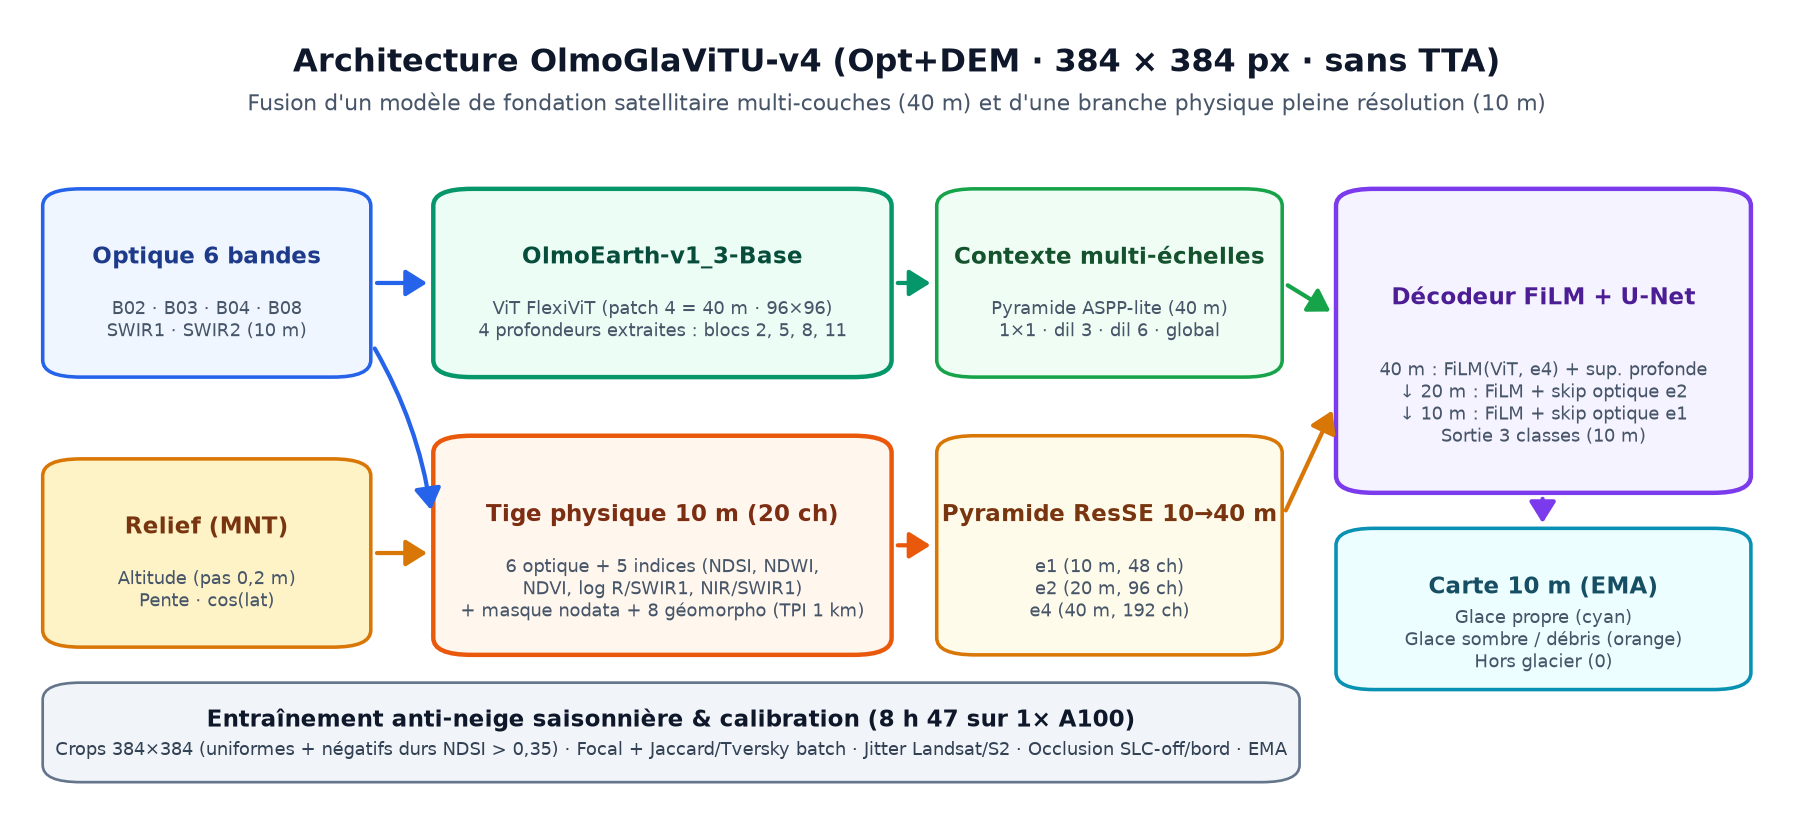
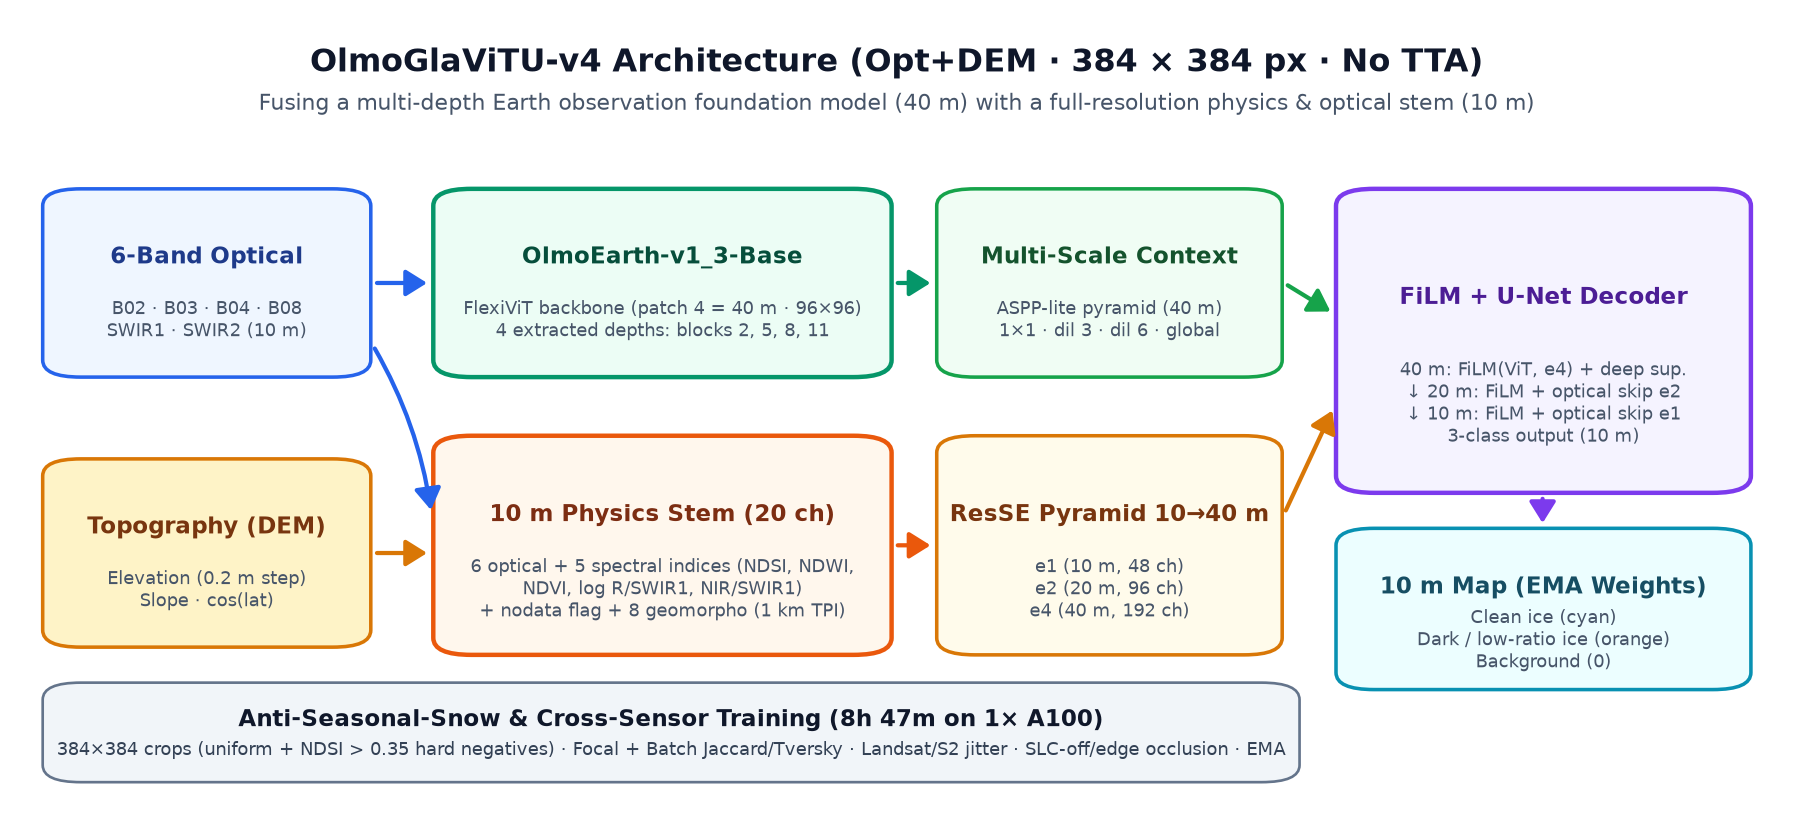
Translate README and benchmark/architecture/comparison figures to English

diff --git a/README.md b/README.md
@@ -1,162 +1,161 @@
-# CryoFM — Atlas mondial 10 m · OlmoGlaViTU vs GlaViTU Global
+# CryoFM — Interactive 10 m Global Glacier Atlas · OlmoGlaViTU vs. GlaViTU Global
 
-[![Atlas en ligne](https://img.shields.io/badge/Atlas_3D_en_ligne-GitHub_Pages-0ea5e9?style=flat-square)](https://tofunori.github.io/cryofm/)
-[![MOY11 sans TTA](https://img.shields.io/badge/MOY11_(556_tuiles,_sans_TTA)-0.9020_(vs_0.894)-059669?style=flat-square)](#résultats-quantitatifs-sans-tta)
-[![Entraînement](https://img.shields.io/badge/Entraînement-8h47_sur_1×_A100-7c3aed?style=flat-square)](#architecture-olmoglavitu-v4)
-[![Modalités](https://img.shields.io/badge/Entrées-Opt%2BDEM_uniquement-f59e0b?style=flat-square)](#protocole-à-armes-égales)
+[![Live 3D Atlas](https://img.shields.io/badge/Live_3D_Atlas-GitHub_Pages-0ea5e9?style=flat-square)](https://tofunori.github.io/cryofm/)
+[![11-Region Mean IoU](https://img.shields.io/badge/11--Region_IoU_(556_tiles,_no_TTA)-0.9020_(vs._0.894)-059669?style=flat-square)](#quantitative-results-no-tta)
+[![Training Cost](https://img.shields.io/badge/Training-8h_47m_on_1×_A100-7c3aed?style=flat-square)](#olmoglavitu-v4-architecture)
+[![Inputs](https://img.shields.io/badge/Inputs-Optical%2BDEM_only-f59e0b?style=flat-square)](#apples-to-apples-protocol)
 
-**CryoFM** est un atlas cartographique interactif à **10 m** (Vite + TypeScript + MapLibre GL 3D Globe, rasters servis depuis **Cloudflare R2**) qui compare pixel par pixel nos adaptations du modèle de fondation satellitaire **OlmoEarth v1.3** (`v2`, `v3`, `v3.1`, **`OlmoGlaViTU-v4`**) face à **GlaViTU Global** (Maslov et al., *Nature Communications*, 2025) sur l'ensemble du benchmark mondial glaciaire (**556 tuiles de test sur 11 régions + 4 scènes indépendantes hors domaine**).
+**CryoFM** is an interactive **10 m** global glacier mapping atlas (Vite + TypeScript + MapLibre GL 3D Globe, with 10 m rasters streamed from **Cloudflare R2**) comparing our adaptations of the **OlmoEarth v1.3** geospatial foundation model (`v2`, `v3`, `v3.1`, **`OlmoGlaViTU-v4`**) pixel-for-pixel against **GlaViTU Global** (Maslov et al., *Nature Communications*, 2025) across the entire global benchmark (**556 test tiles spanning 11 glacierized regions + 4 independent out-of-domain acquisitions**).
 
-- **Atlas 3D interactif** : https://tofunori.github.io/cryofm/
-- **Catalogue R2 (rasters 10 m)** : https://cryofm-data.thierrystpierre.com/manifest.json
+- **Interactive 3D Atlas**: https://tofunori.github.io/cryofm/
+- **10 m Raster Manifest (R2 CDN)**: https://cryofm-data.thierrystpierre.com/manifest.json
 
 <p align="center">
   <a href="https://tofunori.github.io/cryofm/">
-    <img src="docs/assets/cryofm_globe.png" alt="Atlas interactif CryoFM — Globe 3D des 556 tuiles globales et 4 scènes indépendantes" width="100%" />
+    <img src="docs/assets/cryofm_globe.png" alt="CryoFM interactive 3D Globe showing 556 global test tiles and 4 independent scenes" width="100%" />
   </a>
 </p>
 
 ---
 
-## Exemples visuels à 10 m (glace propre, débris et généralisation hors domaine)
+## 10 m Visual Examples (Clean Ice, Debris Cover & Out-of-Domain Generalization)
 
-La figure ci-dessous est assemblée directement à partir des rasters 10 m servis par Cloudflare R2 sur trois contextes glaciologiques complémentaires :
+The plate below is assembled directly from the 10 m rasters served by Cloudflare R2 across three complementary glaciological settings:
 
-1. **Karakoram, Haute-Asie (`HMA-110-83`)** — glacier de vallée fortement couvert de débris : GlaViTU Global manque les deux larges marges latérales couvertes de débris (jaune, `IoU = 0,358`), alors que notre modèle cartographie toute la langue (`0,891` en `v3`, **`0,927`** en `v4`) tout en distinguant l'axe de glace propre (cyan) des manteaux sombres / bas ratio `Red/SWIR1 < 2,0` (orange).
-2. **Massif du Mont-Blanc, Alpes (`ALP-22-13`, Mer de Glace & Argentière)** — Sentinel-2 à 10 m avec ogives, moraines médianes et ombres portées : délimitation nette des marges terminales (`0,897` vs `0,852` pour GlaViTU).
-3. **Montagnes Côtières, Sud-Canada (`southern_canada`, Landsat-5 2005 — scène indépendante Table 1)** — zoom sur une grande langue glaciaire de vallée entièrement manquée par GlaViTU (en jaune) et capturée par notre modèle.
+1. **Karakoram, High-Mountain Asia (`HMA-110-83`)** — heavily debris-covered valley glacier: GlaViTU Global misses both wide lateral debris-covered flanks (yellow FN, `IoU = 0.358`), whereas our model maps the entire tongue (`0.891` in `v3`, **`0.927`** in `v4`) while separating clean ice along the central spine (cyan) from dark / low-ratio ice (`Red/SWIR1 < 2.0`, orange).
+2. **Mont-Blanc Massif, European Alps (`ALP-22-13`, Mer de Glace & Argentière)** — 10 m Sentinel-2 imagery with ogives, medial moraines, and cast shadows: sharper terminal and lateral margins (`0.897` vs. `0.852` for GlaViTU).
+3. **Coast Mountains, Southern Canada (`southern_canada`, Landsat-5 2005 — Table 1 independent OOD scene)** — zoomed view of a major valley glacier terminus completely missed by GlaViTU (yellow) and cleanly captured by our model.
 
 <p align="center">
-  <img src="docs/assets/examples_10m_comparison.jpg" alt="Comparaison visuelle 10 m : Karakoram (HMA), Mont-Blanc (ALP) et Sud-Canada (Table 1)" width="100%" />
+  <img src="docs/assets/examples_10m_comparison.jpg" alt="10 m visual comparison across Karakoram (HMA), Mont-Blanc (ALP), and Southern Canada (Table 1)" width="100%" />
 </p>
 
-> **Transparence des couches** : la classe orange correspond à la partition *glace sombre / bas ratio (`Red/SWIR1 < 2,0`)* issue de `bright_dark_outlines` (et non à un inventaire géomorphologique pur de débris). Les rasters 10 m actuellement synchronisés sur R2 correspondent à `v3` / `v3.1` ; les couches `v4` / `v4.1` seront synchronisées dès la fin de la calibration `v4.1`.
+> **Layer transparency note**: the orange class reflects the *dark / low-ratio ice (`Red/SWIR1 < 2.0`)* partition from `bright_dark_outlines` rather than a pure geomorphological supraglacial debris inventory. The live R2 10 m rasters currently display `v3` / `v3.1`; `v4` / `v4.1` overlays will be synced upon completion of `v4.1`.
 
 ---
 
-## Résultats quantitatifs (sans TTA)
+## Quantitative Results (No TTA)
 
-### Protocole à armes égales
-Toutes les comparaisons ci-dessous sont réalisées **strictement sur les mêmes entrées `Opt+DEM` (6 bandes optiques + altitude/pente)**, **strictement sans *Test-Time Augmentation* (TTA)**, et selon le calcul exact de `evaluate.py` (Maslov et al., 2025).
+### Apples-to-Apples Protocol
+All comparisons use **strictly identical `Optical+DEM` inputs (6 optical bands + elevation/slope)**, **strictly no Test-Time Augmentation (TTA)**, and exact parity with GlaViTU's official `evaluate.py` (Maslov et al., 2025).
 
 <p align="center">
-  <img src="docs/assets/benchmark_11regions.png" alt="Benchmark 11 régions : progression OlmoEarth v2 -> v3.1 -> OlmoGlaViTU-v4 vs GlaViTU Global sans TTA" width="100%" />
+  <img src="docs/assets/benchmark_11regions.png" alt="11-region global glacier benchmark: OlmoEarth v2 -> v3.1 -> OlmoGlaViTU-v4 vs. GlaViTU Global without TTA" width="100%" />
 </p>
 
-### 1. Benchmark mondial — 556 tuiles de test (11 régions, Table 2 de Maslov et al., 2025)
+### 1. Global Benchmark — 556 Test Tiles (11 Regions, Maslov et al. 2025, Table 2)
 
-Un **seul modèle global `OlmoGlaViTU-v4`** (entraîné en **`8 h 47` sur 1 GPU A100**, contre ~2 semaines sur RTX A6000 pour GlaViTU Global) atteint **`MOY11 = 0,9020`** sans TTA — égalant déjà la moyenne des **11 modèles régionaux spécialisés** de GlaViTU (`0,902`) et dépassant GlaViTU Global (`0,894`) dans **9 régions sur 11** (`GR` à `-0,0001` et `AWA` à `-0,0004`).
+A **single global `OlmoGlaViTU-v4` model** (trained in **`8h 47m` on 1× A100**, vs. ~2 weeks on an RTX A6000 for GlaViTU Global) reaches **`0.9020` 11-region mean IoU** without TTA — already matching the average of GlaViTU's **11 separate regional specialist models (`0.902`)** and outperforming GlaViTU Global (`0.894`) in **9 of 11 regions** (with `GR` at `-0.0001` and `AWA` at `-0.0004`).
 
-| Région | GlaViTU Global (`Opt+DEM`) | OlmoEarth `v2` | OlmoEarth `v3.1` | **OlmoGlaViTU `v4`** | **Δ `v4 − GlaViTU`** |
+| Region | GlaViTU Global (`Opt+DEM`) | OlmoEarth `v2` | OlmoEarth `v3.1` | **OlmoGlaViTU `v4`** | **Δ `v4 − GlaViTU`** |
 |---|---:|---:|---:|---:|---:|
-| Scandinavie (`SC`) | `0,908` | `0,9153` | `0,9378` | **`0,9377`** | **`+0,0297`** |
-| Alpes (`ALP`) | `0,844` | `0,8103` | `0,8687` | **`0,8697`** | **`+0,0257`** |
-| Nouvelle-Zélande (`NZ`) | `0,860` | `0,8226` | `0,8652` | **`0,8724`** | **`+0,0124`** |
-| Caucase (`CAU`) | `0,862` | `0,8276` | `0,8661` | **`0,8682`** | **`+0,0062`** |
-| Andes Sud (`SA`) | `0,952` | `0,9385` | `0,9497` | **`0,9559`** | **`+0,0039`** |
-| Basses latitudes (`LL`) | `0,903` | `0,8788` | `0,8911` | **`0,9057`** | **`+0,0027`** |
-| Antarctique (`AN`) | `0,949` | `0,9345` | `0,9438` | **`0,9514`** | **`+0,0024`** |
-| Svalbard (`SVAL`) | `0,936` | `0,9294` | `0,9331` | **`0,9372`** | **`+0,0012`** |
-| Haute-Asie (`HMA`, débris) | `0,774` | `0,6858` | `0,7595` | **`0,7751`** | **`+0,0011`** |
-| Groenland (`GR`) | `0,937` | `0,9299` | `0,9339` | `0,9369` | `-0,0001` |
-| Alaska & Ouest Am. (`AWA`) | `0,912` | `0,8876` | `0,9110` | `0,9116` | `-0,0004` |
-| **Moyenne 11 régions (`MOY11`)** | **`0,894`** *(0,8943)* | `0,8691` | `0,8964` | **`0,9020`** | **`+0,0077`** |
-| **IoU global (pixels agrégés)** | n/d | `0,9027` | `0,9189` | **`0,9231`** | `dA = +1,53 %` |
-| **IoU moyen par tuile** | `0,7697` | — | `0,7901` | **`0,7960`** | **`+0,0263`** |
-| **Coût d'entraînement** | ~2 sem. RTX A6000 | `4 h 44` A100 | `1 h 48` A100 | **`8 h 47` A100** | **~35× plus rapide** |
+| Scandinavia (`SC`) | `0.908` | `0.9153` | `0.9378` | **`0.9377`** | **`+0.0297`** |
+| European Alps (`ALP`) | `0.844` | `0.8103` | `0.8687` | **`0.8697`** | **`+0.0257`** |
+| New Zealand (`NZ`) | `0.860` | `0.8226` | `0.8652` | **`0.8724`** | **`+0.0124`** |
+| Caucasus (`CAU`) | `0.862` | `0.8276` | `0.8661` | **`0.8682`** | **`+0.0062`** |
+| Southern Andes (`SA`) | `0.952` | `0.9385` | `0.9497` | **`0.9559`** | **`+0.0039`** |
+| Low Latitudes (`LL`) | `0.903` | `0.8788` | `0.8911` | **`0.9057`** | **`+0.0027`** |
+| Antarctica (`AN`) | `0.949` | `0.9345` | `0.9438` | **`0.9514`** | **`+0.0024`** |
+| Svalbard (`SVAL`) | `0.936` | `0.9294` | `0.9331` | **`0.9372`** | **`+0.0012`** |
+| High-Mountain Asia (`HMA`, debris) | `0.774` | `0.6858` | `0.7595` | **`0.7751`** | **`+0.0011`** |
+| Greenland Periphery (`GR`) | `0.937` | `0.9299` | `0.9339` | `0.9369` | `-0.0001` |
+| Alaska & W. North America (`AWA`) | `0.912` | `0.8876` | `0.9110` | `0.9116` | `-0.0004` |
+| **11-Region Mean** | **`0.894`** *(0.8943)* | `0.8691` | `0.8964` | **`0.9020`** | **`+0.0077`** |
+| **Global Pixel IoU** | n/a | `0.9027` | `0.9189` | **`0.9231`** | `dA = +1.53%` |
+| **Mean Per-Tile IoU** | `0.7697` | — | `0.7901` | **`0.7960`** | **`+0.0263`** |
+| **Training Compute** | ~2 wks RTX A6000 | `4h 44m` A100 | `1h 48m` A100 | **`8h 47m` A100** | **~35× faster** |
 
-- **Bootstrap apparié `v4 − v3.1`** (2 000 réplicats stratifiés) : `+0,0056`, IC 95 % `[+0,0035 ; +0,0106]`, `P(v4 > v3.1) = 1,0000` (`355/556` tuiles améliorées).
-- **Glace sombre / bas ratio (`Red/SWIR1 < 2,0`)** : `IoU = 0,7104` (`+3,37 pts` vs `v3.1`). **Glaciers `0,5–2 km²`** : `0,6467` (`+7,00 pts` vs `v3.1`).
+- **Paired bootstrap `v4 − v3.1`** (2,000 region-stratified replicates): `+0.0056`, 95% CI `[+0.0035, +0.0106]`, `P(v4 > v3.1) = 1.0000` (`355/556` tiles improved).
+- **Dark / low-ratio ice (`Red/SWIR1 < 2.0`)**: `IoU = 0.7104` (`+3.37 pts` over `v3.1`). **Small glaciers (`0.5–2 km²`)**: `0.6467` (`+7.00 pts` over `v3.1`).
 
-### 2. Généralisation hors domaine — 4 scènes indépendantes (Table 1 de Maslov et al., 2025, sans TTA)
+### 2. Out-of-Domain Generalization — 4 Independent Acquisitions (Maslov et al. 2025, Table 1, No TTA)
 
-| Scène indépendante (capteur, année) | GlaViTU Global (Table 1 papier) | GlaViTU Global (`weights.h5` local) | **OlmoGlaViTU `v4`** (tous px) | `v4` hors `nodata` |
+| Independent Scene (Sensor, Year) | GlaViTU Global (Table 1 paper) | GlaViTU Global (local `weights.h5`) | **OlmoGlaViTU `v4`** (all px) | `v4` excl. `nodata` |
 |---|---:|---:|---:|---:|
-| **Norvège `SC1`** (Sentinel-2, 2019) | `0,926` | `0,9117` | **`0,9269`** | `0,9303` |
-| **Alaska** (Landsat-5, 2009) | `0,914` | `0,9039` | **`0,9173`** | `0,9194` |
-| **Alpes suisses** (Landsat-5, 1998) | `0,865` | `0,8625` | `0,8570` *(v3.1 : 0,8634)* | `0,8570` |
-| **Sud du Canada** (Landsat-5, 2005) | `0,870` | `0,8602` | `0,8295` | `0,8537` *(v3.1 : 0,8657)* |
-| **Moyenne 4 scènes** | **`0,8938`** | `0,8846` | `0,8827` | `0,8901` |
+| **Southern Norway `SC1`** (Sentinel-2, 2019) | `0.926` | `0.9117` | **`0.9269`** | `0.9303` |
+| **Alaska** (Landsat-5, 2009) | `0.914` | `0.9039` | **`0.9173`** | `0.9194` |
+| **Swiss Alps** (Landsat-5, 1998) | `0.865` | `0.8625` | `0.8570` *(v3.1: 0.8634)* | `0.8570` |
+| **Southern Canada** (Landsat-5, 2005) | `0.870` | `0.8602` | `0.8295` | `0.8537` *(v3.1: 0.8657)* |
+| **4-Scene Mean** | **`0.8938`** | `0.8846` | `0.8827` | `0.8901` |
 
-> **En cours (`v4.1`)** : un fine-tuning léger de calibration précision/rappel (`FocalCE` symétrique + `BatchTversky` + négatifs durs neige saisonnière à faible fraction glaciaire) tourne actuellement sur Narval pour réduire le léger biais `FP/FN` sur la neige saisonnière (`GR`, `AWA`, `swiss_alps`, `southern_canada`).
+> **In progress (`v4.1`)**: a targeted precision/recall calibration fine-tuning pass (symmetric `FocalCE` + `BatchTversky` + low-glacier-fraction seasonal snow hard negatives) is currently running on Narval to eliminate the residual seasonal-snow over-prediction on `GR`, `AWA`, `swiss_alps`, and `southern_canada`.
 
 ---
 
-## Architecture `OlmoGlaViTU-v4`
+## `OlmoGlaViTU-v4` Architecture
 
 <p align="center">
-  <img src="docs/assets/architecture_olmoglavitu_v4.png" alt="Architecture OlmoGlaViTU-v4 : OlmoEarth-v1_3-Base multi-couches + tige physique 10 m + décodeur FiLM U-Net" width="100%" />
+  <img src="docs/assets/architecture_olmoglavitu_v4.png" alt="OlmoGlaViTU-v4 architecture fusing multi-depth OlmoEarth-v1_3-Base with a 10 m 20-channel optical-physics stem and FiLM U-Net decoder" width="100%" />
 </p>
 
-Les quatre choix clés qui font passer le modèle de `0,8691` (`v2`) à **`0,9020`** (`v4`) sans TTA :
+Four design choices drive the jump from `0.8691` (`v2`) to **`0.9020`** (`v4`) without TTA:
 
-1. **Branche haute résolution `10 m → 20 m → 40 m` à 20 canaux** : fournit directement au décodeur les 6 bandes optiques, 5 indices spectraux glaciologiques (`NDSI`, `log(R/SWIR1)`, `log(NIR/SWIR1)`, `NDWI`, `NDVI`), le drapeau exact `nodata`, et 8 canaux géomorphométriques corrigés (pas d'altitude `0,2 m`, `TRI` détrendé sans annulation float32 à 6 000 m, `TPI ~1 km`, correction d'anisotropie `cos(lat)`).
-2. **Encodeur fondation `OlmoEarth-v1_3-Base` multi-couches natif `384 × 384`** (`3,84 km × 3,84 km`) : extraction simultanée des 4 profondeurs ViT (`blocs 2, 5, 8, 11`, grilles `96 × 96` via RoPE 3D) enrichies par une pyramide de contexte multi-échelles (ASPP-lite) et une supervision profonde à `40 m`.
-3. **Apprentissage anti-neige saisonnière et `nodata` bout-en-bout** : échantillonnage combinant crops uniformes, négatifs durs de neige saisonnière hors glacier (`NDSI > 0,35`), focus glace sombre/bordures, `crop_and_scale`, jitter radiométrique Landsat/Sentinel-2 et occlusion synthétique (bandes étroites SLC-off vs bordures larges hors-fauchée).
-4. **Perte symétrique + EMA** : `FocalCE (γ = 2)` + `BatchSoftJaccard` / `BatchTversky` (pénalise pleinement les faux positifs sur crops 100 % fond) + frontière fine + moyenne mobile exponentielle (`EMA`) des poids.
+1. **Full-resolution `10 m → 20 m → 40 m` 20-channel physics stem**: feeds the decoder directly with the 6 optical bands, 5 glaciological spectral indices (`NDSI`, `log(R/SWIR1)`, `log(NIR/SWIR1)`, `NDWI`, `NDVI`), an exact `nodata` flag, and 8 corrected geomorphometry channels (`0.2 m` elevation quantization, detrended `TRI` without float32 cancellation at 6,000 m, `~1 km` macro-`TPI`, and `cos(lat)` anisotropy correction).
+2. **Native `384 × 384` (`3.84 km`) multi-depth `OlmoEarth-v1_3-Base` backbone**: extracts 4 transformer depths (`blocks 2, 5, 8, 11`, `96 × 96` token grids via 3D RoPE) enriched by an ASPP-lite multi-scale context pyramid and `40 m` deep supervision.
+3. **Anti-seasonal-snow & end-to-end `nodata` training**: mixes uniform crops, `NDSI > 0.35` seasonal-snow hard negatives, dark-ice/boundary crops, `crop_and_scale`, cross-sensor Landsat/Sentinel-2 radiometric jitter, and synthetic optical occlusion (narrow SLC-off stripes vs. wide exterior swath borders).
+4. **Symmetric loss + EMA**: `FocalCE (γ = 2)` + batch-level `SoftJaccard` / `SoftTversky` (fully penalizing false positives on empty-glacier snow crops) + boundary refinement + Exponential Moving Average (`EMA`) weights.
 
 ---
 
-## Exemple minimal d'inférence (Python)
+## Minimal Inference Example (Python)
 
-Inférence par fenêtre glissante **`384 × 384`** (recouvrement 50 %, pondération cosinus relevé **Hann 2D**, **sans TTA**) à partir d'un checkpoint `ModuleV4` :
+Sliding-window **`384 × 384`** inference (50% overlap, 2D raised-cosine **Hann** blending, **no TTA**) from a `ModuleV4` checkpoint:
 
 ```python
 import numpy as np
 import torch
-import torch.nn.functional as F
 from commun_v4 import dem_vers_u16_v4, fenetre_hann_2d, optique_vers_refl_et_dn6
 from modele_v4 import ModuleV4
 from tester_v4 import predire_tuile
 
-# 1. Charger le modèle (poids EMA sauvegardés dans best.ckpt)
+# 1. Load model (EMA weights stored in best.ckpt)
 module = ModuleV4.load_from_checkpoint("best.ckpt", map_location="cuda").cuda().eval()
 hann_w = fenetre_hann_2d(384, device="cuda")
 
-# 2. Préparer une tuile (opt: H×W×6 normalisé GlaViTU, dem: H×W×2 [alt, pente])
+# 2. Prepare a tile (opt: HxWx6 GlaViTU-normalized optical, dem: HxWx2 [elev, slope])
 _, dn6, nodata = optique_vers_refl_et_dn6(opt)
 x8 = np.concatenate([dn6, dem_vers_u16_v4(dem)], axis=-1)   # uint16 (H, W, 8)
 
-# 3. Prédire les probabilités 3 classes [fond, glace_sombre, glace_propre] à 10 m
+# 3. Predict 3-class probabilities [background, dark_ice, clean_ice] at 10 m
 probs = predire_tuile(module, x8, cos_lat=1.0, w=384, batch_size=12, hann_w=hann_w)
-p_glacier = probs[1] + probs[2]              # probabilité totale glacier (H, W)
-masque_glacier = (p_glacier > 0.50) & ~nodata
-masque_sombre = masque_glacier & (probs[1] > probs[2])
+p_glacier = probs[1] + probs[2]              # total glacier probability (H, W)
+glacier_mask = (p_glacier > 0.50) & ~nodata
+dark_ice_mask = glacier_mask & (probs[1] > probs[2])
 ```
 
 ---
 
-## Contenu de l'atlas interactif (`CryoFM`)
+## Interactive Atlas Features (`CryoFM`)
 
-- **556 tuiles de test globales** sur globe 3D, colorées par `Δ − GlaViTU`, `v3 − v2`, `IoU`, `Débris` ou `InSAR`, avec tri multi-critères et filtres par région.
-- **Sites géoréférencés à 10 m** (dont les 4 scènes indépendantes Table 1 : *Alpes suisses 1998*, *Sud-Canada 2005*, *Alaska 2009*, *Norvège SC1 2019*) avec **rideau *swipe* pixel-à-pixel synchronisé** :
-  - **OlmoEarth v1.3 (`v3.1`, `v3 p=4`, `v3 p=2`)** : glace propre (cyan) + glace sombre / bas ratio (orange)
-  - **GlaViTU Global** : inféré localement avec les poids officiels `glavitu_global_weights.h5`
-  - **OlmoEarth v2**, **Vérité terrain**, **Erreurs TP/FP/FN**, **Désaccord OlmoEarth vs GlaViTU** et **Incertitude FlexiViT (`|p=2 − p=4|`)**
+- **556 global test tiles** on an interactive 3D globe, color-coded by `Δ − GlaViTU`, `v3 − v2`, `IoU`, `Debris`, or `InSAR`, with multi-criteria sorting and regional filtering.
+- **Georeferenced 10 m sites** (including the 4 Table 1 independent scenes: *Swiss Alps 1998*, *Southern Canada 2005*, *Alaska 2009*, *Norway SC1 2019*) with a **synchronized pixel-for-pixel swipe curtain**:
+  - **OlmoEarth v1.3 (`v3.1`, `v3 p=4`, `v3 p=2`)**: clean ice (cyan) + dark / low-ratio ice (orange)
+  - **GlaViTU Global**: inferred locally using the official `glavitu_global_weights.h5` weights
+  - **OlmoEarth v2**, **Reference Ground Truth**, **TP/FP/FN Error Maps**, **Model Disagreement**, and **FlexiViT Uncertainty (`|p=2 − p=4|`)**
 
-### Développement local & mise à jour des rasters R2
+### Local Development & R2 Raster Sync
 
 ```bash
-# Développement local (lit directement les rasters 10 m depuis Cloudflare R2)
+# Local dev server (streams 10 m rasters directly from Cloudflare R2)
 npm install
 npm run dev
 
-# Synchroniser les nouveaux rasters 10 m depuis Narval -> Cloudflare R2 (sans rebuild GitHub Pages)
+# Sync updated 10 m rasters from Narval -> Cloudflare R2 (no GitHub Pages rebuild needed)
 ./publish_r2_from_narval.sh
 ```
 
-### Raccourcis clavier (dans l'atlas)
+### Keyboard Shortcuts (Inside the Atlas)
 
-| Touche | Action |
+| Key | Action |
 |---|---|
-| `1` – `5` | Préréglages rapides (`OlmoEarth ↔ GlaViTU`, `OlmoEarth ↔ Vérité`, `Désaccord`, `Erreurs`, `v3.1 ↔ v3` / `v2`) |
-| `Espace` | Activer / désactiver le rideau *swipe* |
-| `←` / `→` | Site 10 m précédent / suivant |
-| `Esc` | Retour à la vue Globe 3D |
+| `1` – `5` | Quick layer presets (`OlmoEarth ↔ GlaViTU`, `OlmoEarth ↔ Ground Truth`, `Disagreement`, `Errors`, `v3.1 ↔ v3` / `v2`) |
+| `Space` | Toggle swipe curtain |
+| `←` / `→` | Previous / next 10 m site |
+| `Esc` | Return to 3D Globe view |
 
 ---
 
-## Références
+## References
 
-- **Benchmark & modèle de référence GlaViTU** : Maslov, K. A., Persello, C., Schellenberger, T., & Stein, A. (2025). *Globally scalable glacier mapping by deep learning matches expert delineation accuracy*. Nature Communications, 16, 43. https://doi.org/10.1038/s41467-024-54956-x
-- **Encodeur fondation OlmoEarth** : Allen Institute for AI (Ai2) — `allenai/OlmoEarth-v1_3-Base` (`olmoearth_pretrain` / `rslearn`).
+- **Benchmark & GlaViTU Baseline**: Maslov, K. A., Persello, C., Schellenberger, T., & Stein, A. (2025). *Globally scalable glacier mapping by deep learning matches expert delineation accuracy*. Nature Communications, 16, 43. https://doi.org/10.1038/s41467-024-54956-x
+- **OlmoEarth Foundation Backbone**: Allen Institute for AI (Ai2) — `allenai/OlmoEarth-v1_3-Base` (`olmoearth_pretrain` / `rslearn`).
